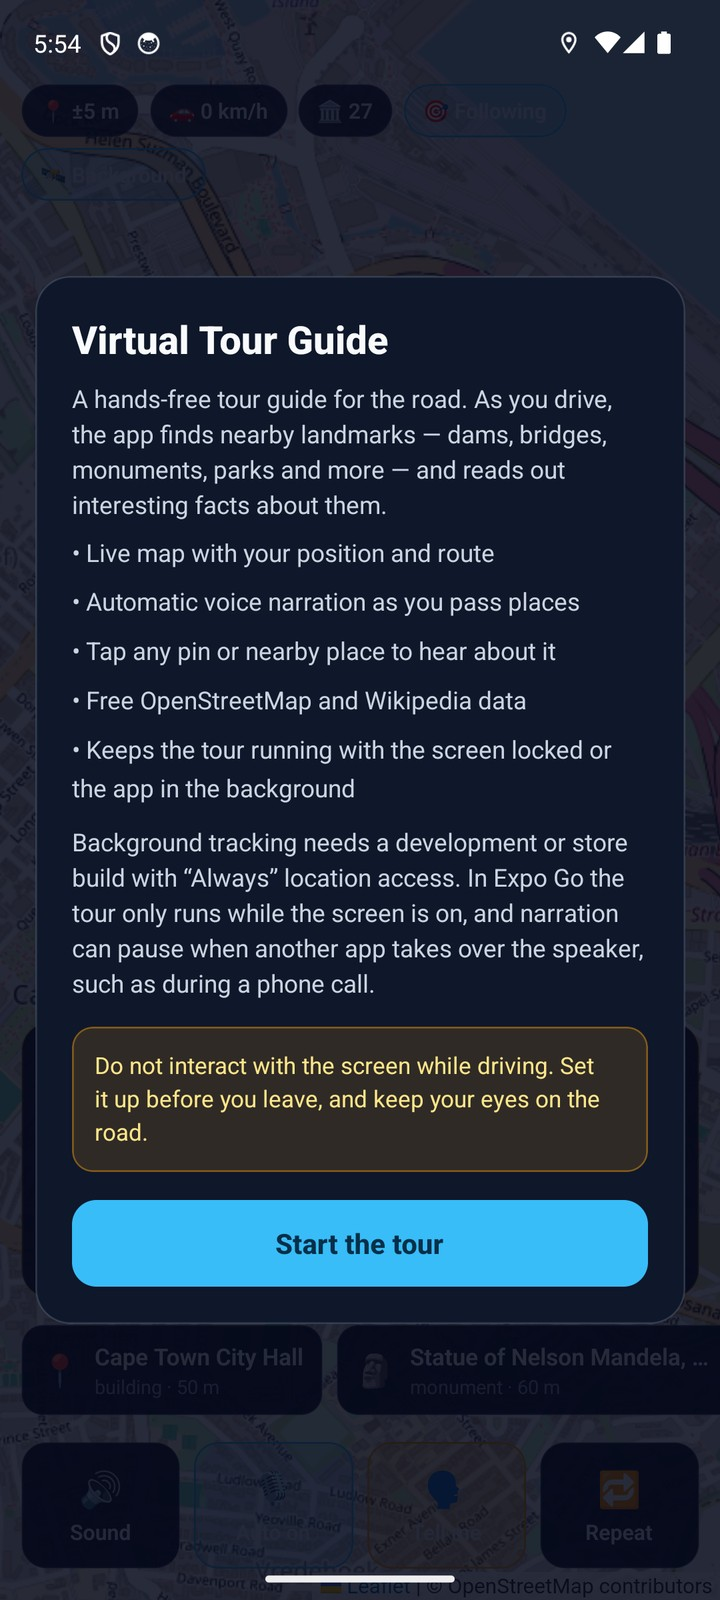
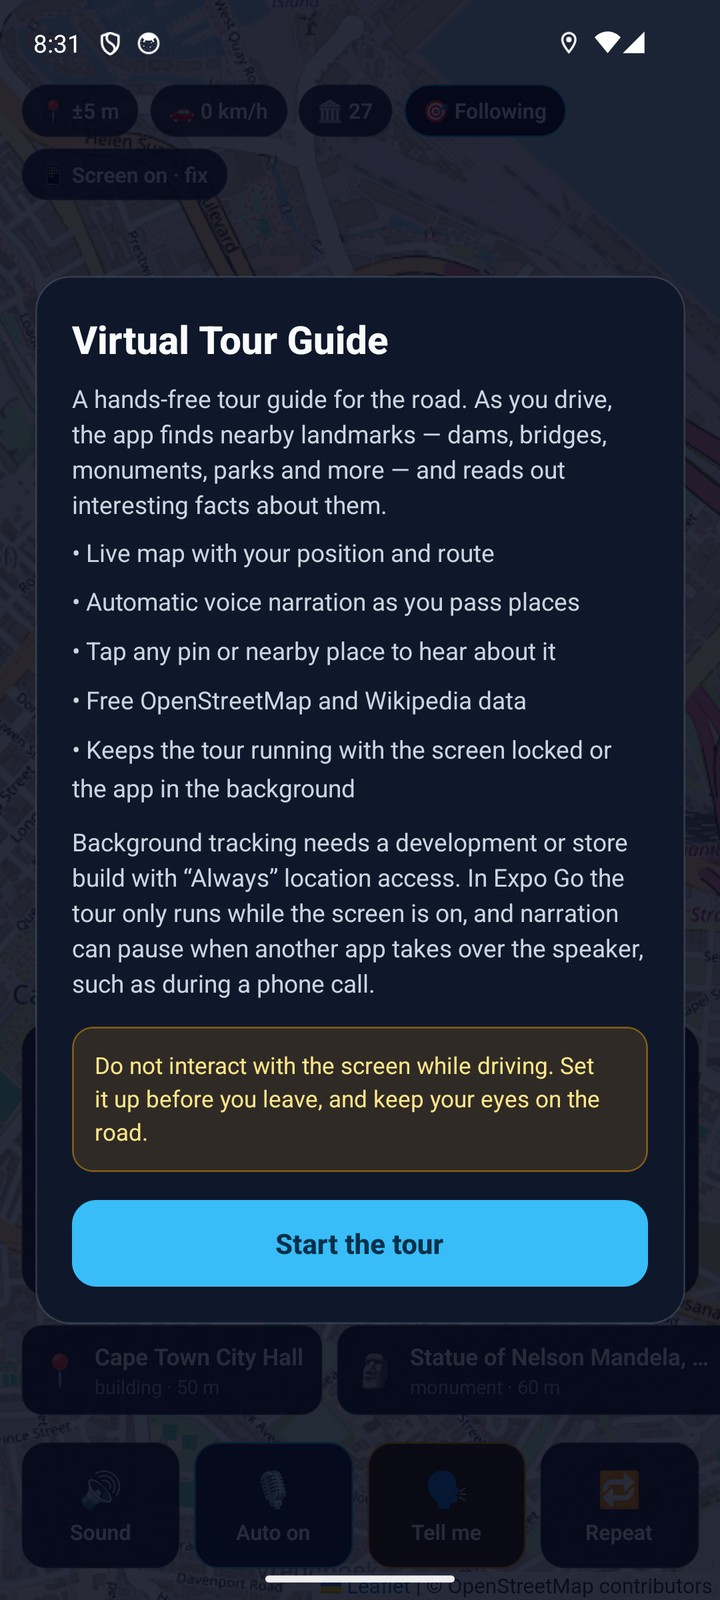
Make active control and pill states readable over light map tiles and release 1.0.2
The translucent cyan and amber tints washed out their light labels on bright
OpenStreetMap imagery, so active controls now sit on opaque dark backgrounds.

🤖 Generated with Codebuff

diff --git a/App.tsx b/App.tsx
@@ -267,7 +267,7 @@ const styles = StyleSheet.create({
     borderWidth: 1,
     borderColor: 'rgba(148,163,184,0.25)',
   },
-  pillActive: { borderColor: '#38bdf8', backgroundColor: 'rgba(56,189,248,0.18)' },
+  pillActive: { borderColor: '#38bdf8', backgroundColor: '#0b1220' },
   pillText: { color: '#e2e8f0', fontSize: 12, fontWeight: '600' },
   notice: {
     alignSelf: 'flex-start',
@@ -367,14 +367,14 @@ const styles = StyleSheet.create({
   },
   controlActive: {
     borderColor: '#38bdf8',
-    backgroundColor: 'rgba(56,189,248,0.18)',
+    backgroundColor: '#11243a',
   },
   controlPrimary: {
     borderColor: '#f59e0b',
-    backgroundColor: 'rgba(245,158,11,0.2)',
+    backgroundColor: '#33220a',
   },
   controlIcon: { fontSize: 20 },
-  controlLabel: { color: '#e2e8f0', fontSize: 12, fontWeight: '600' },
+  controlLabel: { color: '#f1f5f9', fontSize: 12, fontWeight: '600' },
   modalBackdrop: {
     flex: 1,
     backgroundColor: 'rgba(2,6,23,0.85)',

diff --git a/README.md b/README.md
@@ -13,7 +13,7 @@ keys, no paid services — it runs entirely on free OpenStreetMap and Wikipedia 
 ![Platform](https://img.shields.io/badge/platform-Android-3DDC84?logo=android&logoColor=white)
 ![Expo SDK](https://img.shields.io/badge/Expo_SDK-58-000020?logo=expo&logoColor=white)
 ![React Native](https://img.shields.io/badge/React_Native-0.88-61DAFB?logo=react&logoColor=black)
-![Version](https://img.shields.io/badge/version-1.0.1-blue)
+![Version](https://img.shields.io/badge/version-1.0.2-blue)
 ![Data](https://img.shields.io/badge/data-OSM_%2B_Wikipedia-0aa2c0)
 
 ---
